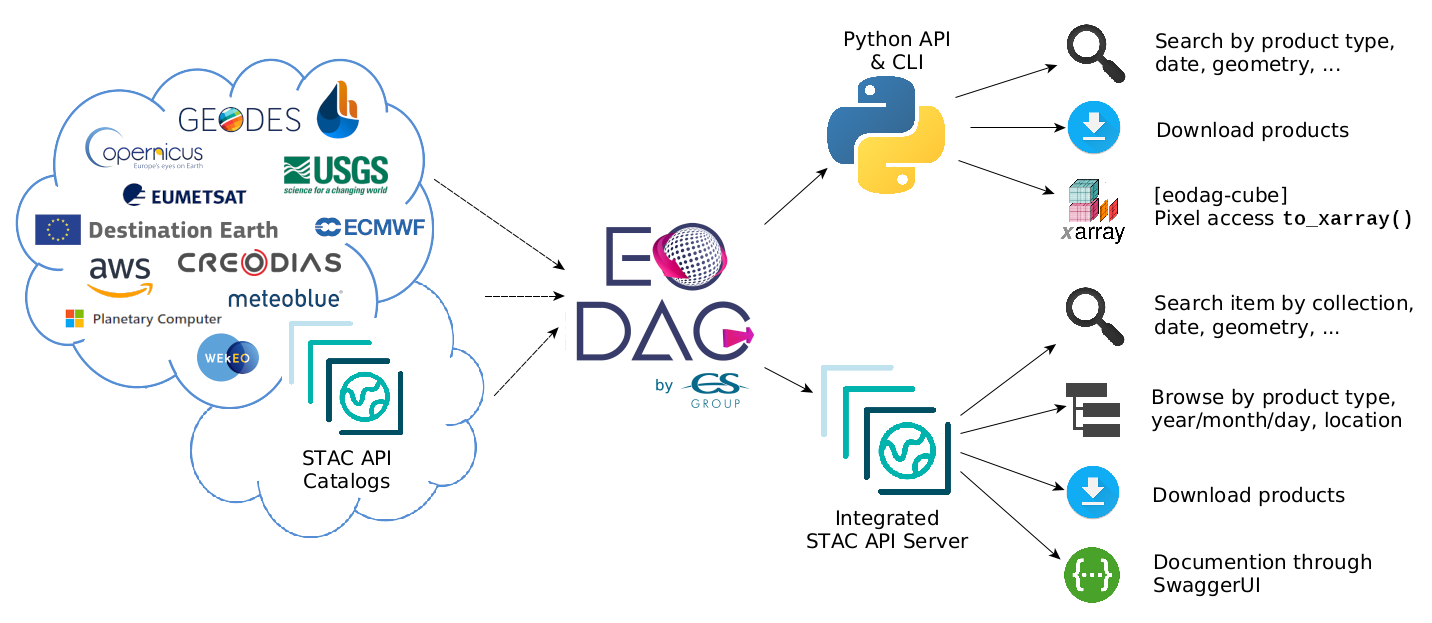
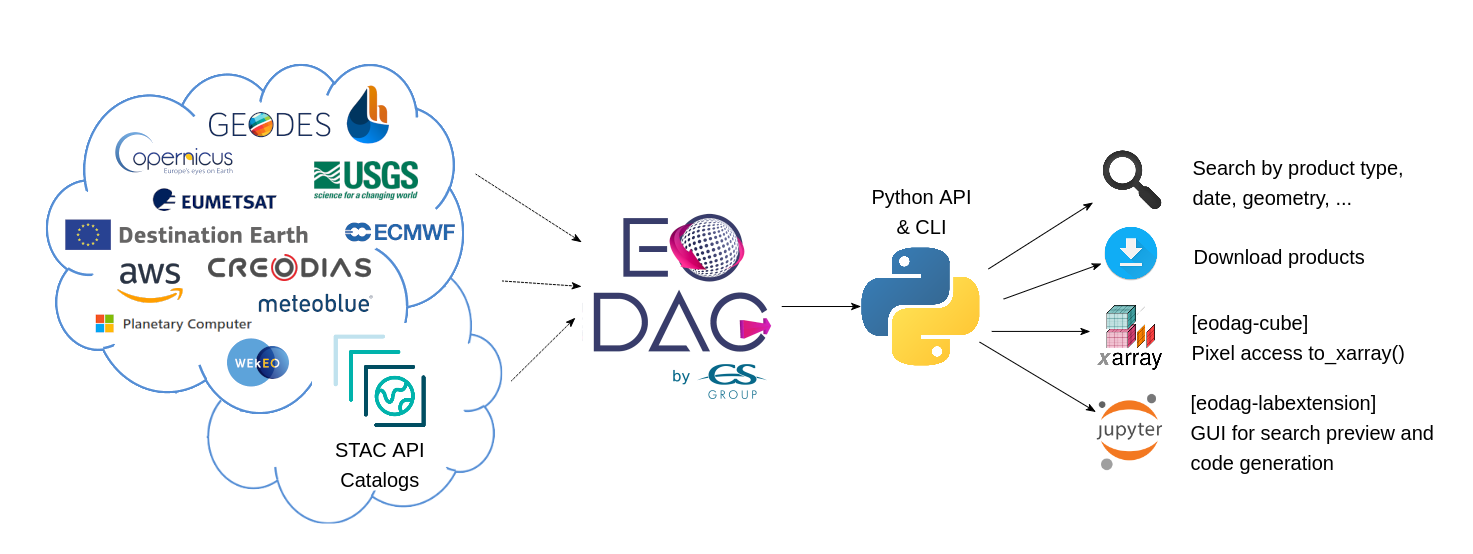
docs: updated description, overview and ecosystem (#1734)

diff --git a/README.rst b/README.rst
@@ -44,22 +44,20 @@ data provider. The EODAG SDK is structured around three functions:
 
 * List product types: list of supported products and their description
 
-* Search products (by product type or uid) : searches products according to the search criteria provided
+* Search products (by product type or uid): searches products according to the search criteria provided
 
-* Download products : download product “as is"
+* Download products: download product “as is"
 
 EODAG is developed in Python. It is structured according to a modular plugin architecture, easily extensible and able to
 integrate new data providers. Three types of plugins compose the tool:
 
-* Catalog search plugins, responsible for searching data (OpenSearch, CSW, ...), building paths, retrieving quicklook,
+* Catalog search plugins, responsible for searching data (STAC, OpenSearch, OData, ...), building paths, retrieving quicklook,
   combining results
 
-* Download plugins, allowing to download and retrieve data locally (via FTP, HTTP, ..), always with the same directory
+* Download plugins, allowing to download and retrieve data locally (via HTTP, S3, ...), always with the same directory
   organization
 
 * Authentication plugins, which are used to authenticate the user on the external services used (JSON Token, Basic Auth, OAUTH, ...).
-
-EODAG can be run as STAC client or server <https://eodag.readthedocs.io/en/latest/stac.html>`_.
 
 Read `the documentation <https://eodag.readthedocs.io/en/latest/>`_ for more insights.
 

diff --git a/docs/getting_started_guide/overview.rst b/docs/getting_started_guide/overview.rst
@@ -6,7 +6,7 @@ Why EODAG?
 Nowadays, we observe a rise in publicly accessible Earth Observation (EO) data.
 Together with it, there is more and more EO data providers, each potentially having
 a different data access policy. This difference is visible at various levels:
-in the data discovery (CSW, OpenSearch more or less custom, etc.), in the
+in the data discovery (STAC, OData, OpenSearch more or less custom, etc.), in the
 product access (object storage, downloads, direct file system access, etc.), in
 the storage structure and in the authentication mechanisms (OAUTH, JWT, basic
 auth,...). All these different technologies add a knowledge overhead on a user
@@ -28,9 +28,9 @@ EODAG is developed in Python. It is structured according to a modular plugin
 architecture, easily extensible and able to integrate new data providers. Three
 types of plugins compose the tool:
 
-* Catalog search plugins, responsible for searching data (OpenSearch, CSW, ...),
+* Catalog search plugins, responsible for searching data (STAC, OpenSearch, OData, ...),
   building paths, retrieving quicklook, combining results
-* Download plugins, allowing to download and retrieve data locally (via FTP, HTTP, ..),
+* Download plugins, allowing to download and retrieve data locally (via HTTP, S3, ...),
   always with the same directory organization
 * Authentication plugins, which are used to authenticate the user on the
   external services used (JSON Token, Basic Auth, OAUTH, ...).

diff --git a/docs/getting_started_guide/ecosystem.rst b/docs/getting_started_guide/ecosystem.rst
@@ -1,7 +1,7 @@
-.. _side_projects:
+.. ecosystem:
 
-Side projects
-=============
+Ecosystem
+=========
 
 EODAG-cube
 ----------
@@ -9,15 +9,6 @@ EODAG-cube
 Data access functionalities have been split to a separate project to avoid conflicts with
 unneeded libraries when using only EODAG basic functionalities. EODAG-cube is available
 on `github <https://github.com/CS-SI/eodag-cube>`__ and `pypi <https://pypi.org/project/eodag-cube>`__.
-
-EODAG-sentinelsat
------------------
-
-API plugin that enables to search and download EO products from catalogs implementing the
-`SciHub / Copernicus Open Access Hub interface <https://scihub.copernicus.eu/userguide/WebHome>`_.
-It is basically a wrapper around `sentinelsat <https://sentinelsat.readthedocs.io>`_, enabling it to be used with EODAG.
-EODAG-sentinelsat is available on `github <https://github.com/CS-SI/eodag-sentinelsat>`__ and
-`pypi <https://pypi.org/project/eodag-sentinelsat/>`__.
 
 EODAG-labextension
 ------------------

diff --git a/docs/add_provider.rst b/docs/add_provider.rst
@@ -64,7 +64,7 @@ own needs (i.e. getting data from a provider not supported by ``eodag``), you sh
 and configure them. What you are the most likely to be willing to do is either to develop a new `Search <plugins_reference/search.rst>`_ plugin or an
 `Api <plugins_reference/api.rst>`_ plugin (e.g. to create an interface with another program).
 
-`eodag-sentinelsat <https://github.com/CS-SI/eodag-sentinelsat>`_ is a good example of an Api plugin. It creates an interface with the
+`eodag-sentinelsat (archived) <https://github.com/CS-SI/eodag-sentinelsat>`_ was a good example of an Api plugin. It created an interface with the
 `sentinalsat <https://github.com/sentinelsat/sentinelsat>`_ library to search and download products from `SciHub <https://scihub.copernicus.eu/>`_.
 
 See more details about how to create a new plugin in :ref:`this dedicated section <creating_plugins>`.

diff --git a/docs/plugins.rst b/docs/plugins.rst
@@ -185,7 +185,7 @@ Read the :ref:`mock search plugin` section to get an example of how to build a s
 plugin.
 
 As an example of external plugin, you can have a look to
-`eodag-sentinelsat <https://github.com/CS-SI/eodag-sentinelsat>`_.
+`eodag-sentinelsat (archived) <https://github.com/CS-SI/eodag-sentinelsat>`_.
 
 .. _mock search plugin:
 

diff --git a/docs/getting_started_guide/index.rst b/docs/getting_started_guide/index.rst
@@ -16,4 +16,4 @@ it efficiently as quickly as possible.
    product_types
    product_storage_status
    configure
-   side_projects
+   ecosystem
